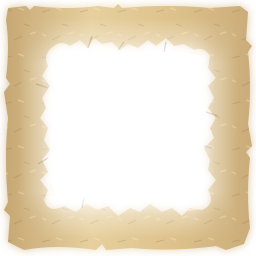
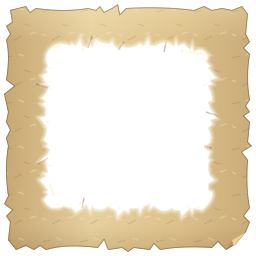
Restore torn parchment edges with a subtle inner fade

Changed region(s): [[0.0938, 0.125, 0.9062, 0.9062], [0.0, 0.0, 1.0, 1.0]]

diff --git a/styles.css b/styles.css
@@ -62,7 +62,7 @@ h1,p{margin:0}
 /* The same raster frame, split into eight background tiles. A real overlay layer
    keeps the parchment above inline video without border-image or media effects. */
 .parchment-frame{position:absolute;z-index:1;inset:-1px;display:grid;grid-template-columns:28px minmax(0,1fr) 28px;grid-template-rows:28px minmax(0,1fr) 28px;pointer-events:none;transform:translateZ(0)}
-.parchment-frame>span{min-width:0;min-height:0;background-image:url("assets/parchment-frame.png");background-repeat:no-repeat;background-size:400% 400%}
+.parchment-frame>span{min-width:0;min-height:0;background-image:url("assets/parchment-frame.png?v=torn-card-edges-1");background-repeat:no-repeat;background-size:400% 400%}
 .parchment-frame>span:nth-child(1){grid-area:1/1;background-position:left top}
 .parchment-frame>span:nth-child(2){grid-area:1/2;background-size:200% 400%;background-position:center top}
 .parchment-frame>span:nth-child(3){grid-area:1/3;background-position:right top}

diff --git a/index.html b/index.html
@@ -15,7 +15,7 @@
   <link rel="icon" href="assets/addon-logo.png" type="image/png">
   <link rel="preload" href="assets/fonts/cinzel.woff2" as="font" type="font/woff2" crossorigin>
   <link rel="preload" href="assets/wow-landscape.webp" as="image" fetchpriority="high">
-  <link rel="stylesheet" href="styles.css?v=parchment-layer-1">
+  <link rel="stylesheet" href="styles.css?v=torn-card-edges-1">
   <script src="script.js?v=parchment-overlay-1" defer></script>
   <noscript><style>.photo-stage{opacity:1}.photo-card{width:min(44%,300px)}</style></noscript>
 </head>
